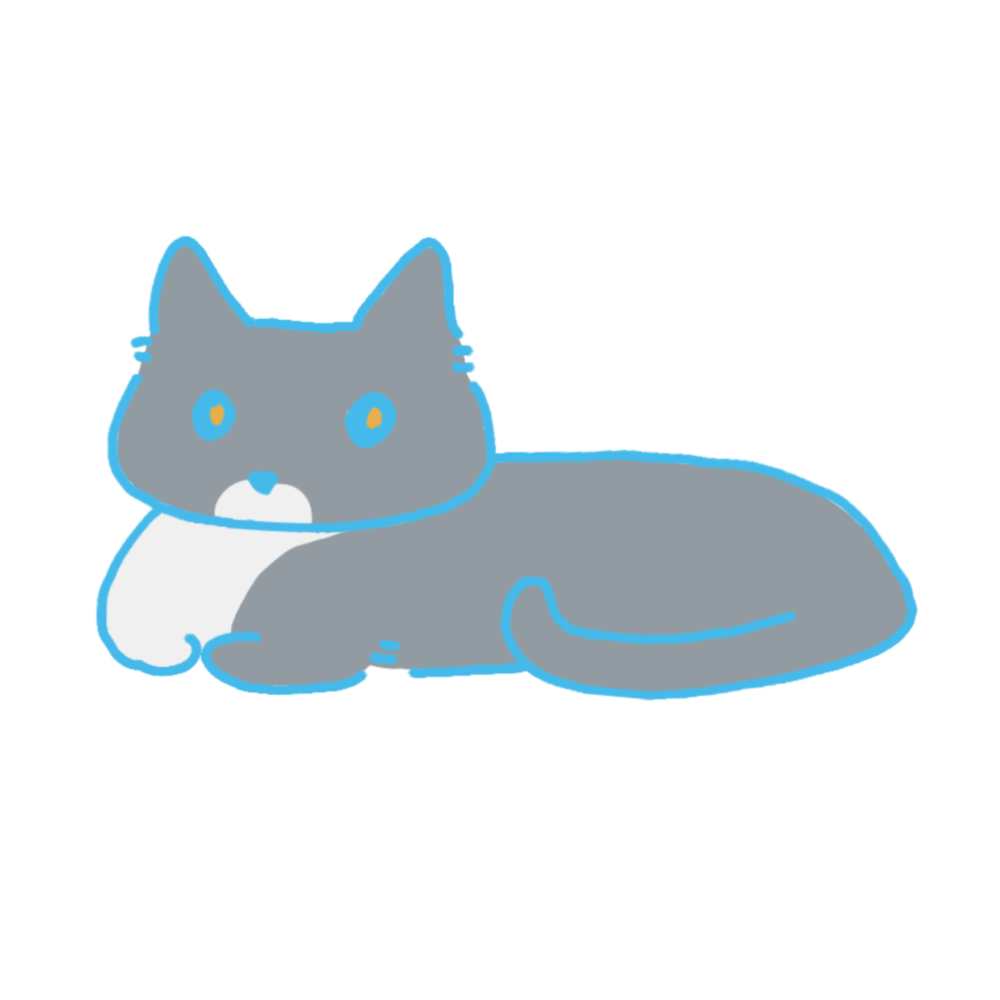
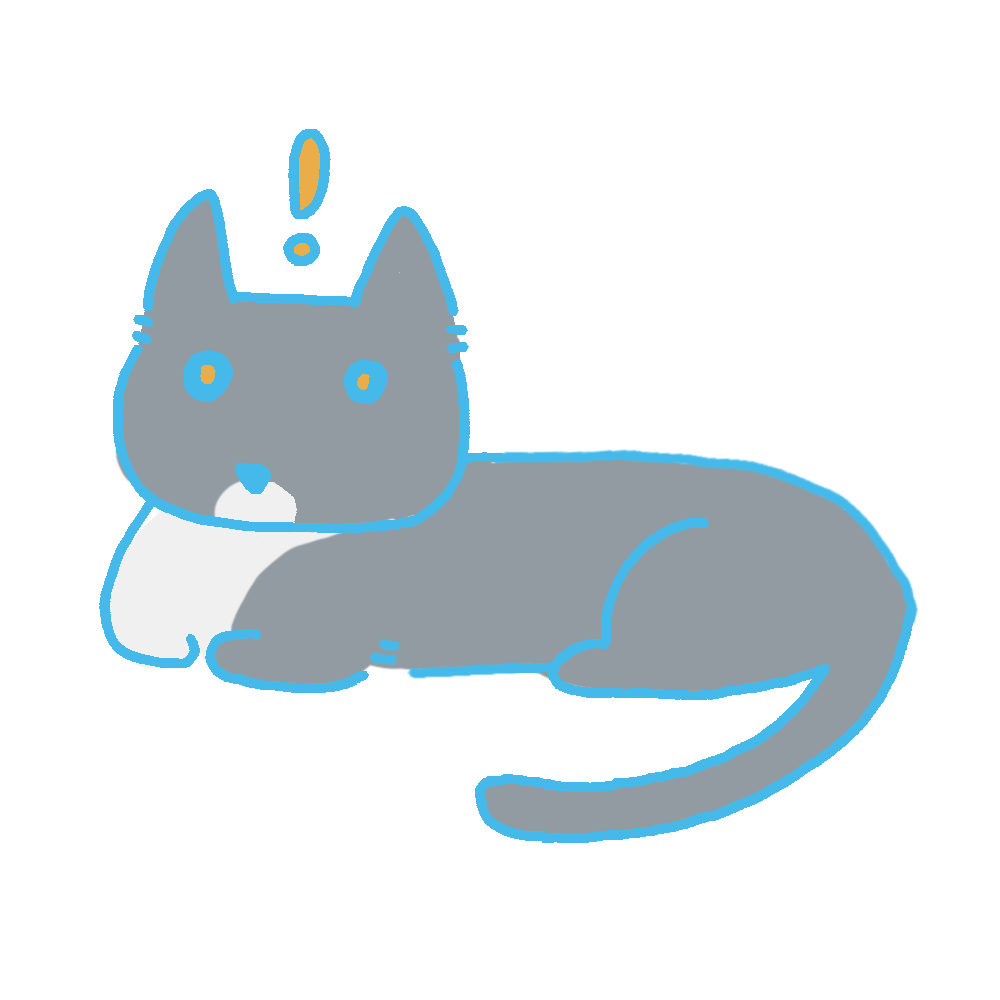
修复了图片可能加载不出来的问题，更新了小猫表情

diff --git a/v1.0/test.py b/v1.0/test.py
@@ -3,6 +3,9 @@ import json
 import sys
 from pathlib import Path
 
+# 获取当前脚本所在目录
+BASE_DIR = Path(__file__).resolve().parent
+
 # 兼容导入PySide6或PyQt5
 try:
     from PySide6 import QtCore, QtGui, QtWidgets
@@ -27,14 +30,15 @@ if hasattr(Qt, 'AA_UseHighDpiPixmaps'):
 
 # 表情文件路径配置
 EMOTION_FILES = {
-    "normal": "assets/pet/normal.png",
-    "happy": "assets/pet/happy.png",
-    "curious": "assets/pet/curious.png",
-    "blink": "assets/pet/blink.png"
+    "normal": str(BASE_DIR / "assets" / "pet" / "normal.png"),
+    "happy": str(BASE_DIR / "assets" / "pet" / "happy.png"),
+    "curious": str(BASE_DIR / "assets" / "pet" / "curious.png"),
+    "blink": str(BASE_DIR / "assets" / "pet" / "wink.png"),
 }
 
+
 # 默认模板
-DEFAULT_TEMPLATES = ["喝水", "休息眼睛", "站立活动", "查看日程"]
+DEFAULT_TEMPLATES = ["喝水", "休息眼睛", "站起来活动一下", "查看日程"]
 
 class PetWidget(QLabel):
     """宠物表情显示组件"""
